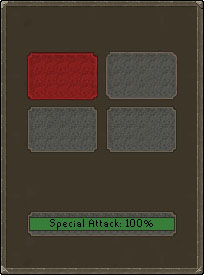
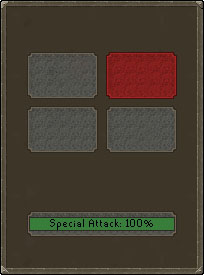
styles

Changed region(s): [[0.1176, 0.1745, 0.8824, 0.3782]]

diff --git a/src/components/Equipment/WeaponStyles/WeaponDisplay.js b/src/components/Equipment/WeaponStyles/WeaponDisplay.js
@@ -1,10 +1,73 @@
-import React from 'react'
+import React , {useState, useEffect} from 'react'
 import './WeaponDisplay.css'
+import Style from './Style'
 
-export default function WeaponDisplay() {
-  return (
-    <div className='weapon-container'>
-        
-    </div>
-  )
+import Top_Right from './Images/Attack_Top_Right.jpeg'
+import Top_Left from './Images/Attack_Top_Left.jpeg'
+import Bottom_Right from './Images/Attack_Bottom_Right.jpeg'
+import Bottom_Left from './Images/Attack_Bottom_Left.jpeg'
+
+import { twoHSword } from './Types/2h-Sword'
+import { unarmed } from './Types/Unarmed'
+import { Axe } from './Types/Axe'
+
+export default function WeaponDisplay({ weapon, type }) {
+    const [style, setStyle] = useState('top_right')
+    const [img, setImg] = useState(Top_Right)
+    const [data, setData] = useState(unarmed)
+
+    useEffect(() => {
+        console.log(type)
+        switch(type){
+            case '2h Sword':
+                setData(twoHSword)
+                break;
+            case 'Unarmed':
+                setData(unarmed)
+                break;
+            case 'Axe':
+                setData(Axe)
+            default:
+                break;
+        }
+        console.log(data)
+    },[type])
+
+    useEffect(() => {
+        switch (style) {
+            case 'top_right':
+                setImg(Top_Right)
+                break;
+            case 'top_left':
+                setImg(Top_Left)
+                break;
+            case 'bottom_left':
+                setImg(Bottom_Left)
+                break;
+            case 'bottom_right':
+                setImg(Bottom_Right)
+                break;
+            default:
+                break;
+        }
+    },[style])
+
+
+    return (
+        <div
+            className='weapon-container'
+            style={{backgroundImage: `url(${img})`}}
+        >
+            <div className='weapon-name'>
+                {weapon.itemname? weapon.itemname.replace(/_/g, ' ') : 'Unarmed'}
+            </div>
+            <Style pos={'top_left'} setStyle={setStyle} data={data}/>
+            <Style pos={'top_right'} setStyle={setStyle} data={data}/>
+            <Style pos={'bottom_left'} setStyle={setStyle} data={data}/>
+            <Style pos={'bottom_right'} setStyle={setStyle} data={data}/>
+            <div className='weapon-category'>
+                Category: {type}
+            </div>
+        </div>
+    )
 }

diff --git a/src/components/Equipment/WeaponStyles/Style.js b/src/components/Equipment/WeaponStyles/Style.js
@@ -1,0 +1,50 @@
+import React, {useEffect, useState} from 'react'
+
+export default function Style({pos, setStyle, data}) {
+
+    const [imgUrl, setImgUrl] = useState('')
+    const [styleData, setStyleData] = useState({
+        name: 'Name',
+        attack: 'Attack',
+        boost: 'Boost',
+        level: 0
+    })
+
+
+    useEffect(() => {
+        if (styleData) setImgUrl(`https://oldschool.runescape.wiki/images/CombatStyles_%28${data.Type}%2C_${styleData.name.toLowerCase()}%29.png?b4ce5`)
+    }, [styleData])
+
+    useEffect(() => {
+        switch (pos) {
+            case 'top_left':
+                setStyleData(data.TopLeft)
+                break;
+            case 'top_right':
+                setStyleData(data.TopRight)
+                break;
+            case 'bottom_left':
+               setStyleData(data.BottomLeft)
+                break
+            case 'bottom_right':
+                setStyleData(data.BottomRight)
+                break;
+            default:
+                break;
+        }
+    },[data])
+
+    function handleClick() {
+        setStyle(pos)
+    }
+
+  return (
+    <div 
+        className={`style ${pos}`}
+        onClick={handleClick}
+    >
+        <img src={imgUrl}></img>
+        <a>{styleData? styleData.name : ''}</a>
+    </div>
+  )
+}

diff --git a/src/components/Equipment/WeaponStyles/WeaponDisplay.css b/src/components/Equipment/WeaponStyles/WeaponDisplay.css
@@ -2,4 +2,63 @@
     background-image: url('./Images/Attack_style_tab.webp');
     width: 205px;
     height: 275px;
+
+    user-drag: none; 
+    user-select: none;
+    -moz-user-select: none;
+    -webkit-user-drag: none;
+    -webkit-user-select: none;
+    -ms-user-select: none;
+}
+
+.style {
+    padding-left: 17px;
+    display: flex;
+    flex-direction: column;
+    position: relative;
+    align-items: baseline;
+    width: 72px;
+    height: 50px;
+}
+
+.style img {
+    padding-top: 7px;
+    width: 33%;
+}
+
+.weapon-name{
+    text-align: center;
+    position: relative;
+    left: -3px;
+    top: 18px;
+    color: rgb(218, 161, 17);
+    text-shadow: 1px 1px 2px black;
+}
+
+.weapon-category {
+    text-align: center;
+    position: relative;
+    left: -3px;
+    top: 20px;
+    color: rgb(218, 161, 17);
+    text-shadow: 1px 1px 2px black;
+}
+
+.top_left {
+    left: 27px;
+    top: 30px;
+}
+
+.top_right {
+    left: 105px;
+    top: -18px;
+}
+
+.bottom_left {
+    left: 27px;
+    top: -16px;
+}
+.bottom_right{
+    left: 105px;
+    top: -63px;
 }

diff --git a/src/components/Equipment/WeaponStyles/Types/2h-Sword.js b/src/components/Equipment/WeaponStyles/Types/2h-Sword.js
@@ -1,0 +1,27 @@
+export const twoHSword = {
+    TopRight:{
+        name: 'Slash',
+        attack: 'Slash',
+        boost: 'Strength',
+        level: 3
+    },
+    TopLeft:{
+        name: 'Chop',
+        attack: 'Slash',
+        boost: 'Attack',
+        level: 3
+    },
+    BottomLeft:{
+        name: 'Smash',
+        attack: 'Crush',
+        boost: 'Strength',
+        level: 3
+    },
+    BottomRight:{
+        name: 'Block',
+        attack: 'Slash',
+        boost: 'Defence',
+        level: 3
+    },
+    Type: '2h_sword'
+}

diff --git a/src/components/Equipment/WeaponStyles/Types/Axe.js b/src/components/Equipment/WeaponStyles/Types/Axe.js
@@ -1,0 +1,27 @@
+export const Axe = {
+    TopRight:{
+        name: 'Hack',
+        attack: 'Slash',
+        boost: 'Strength',
+        level: 3
+    },
+    TopLeft:{
+        name: 'Chop',
+        attack: 'Slash',
+        boost: 'Attack',
+        level: 3
+    },
+    BottomLeft:{
+        name: 'Smash',
+        attack: 'Crush',
+        boost: 'Strength',
+        level: 3
+    },
+    BottomRight:{
+        name: 'Block',
+        attack: 'Slash',
+        boost: 'Defence',
+        level: 3
+    },
+    Type: 'axe'
+}

diff --git a/src/components/Equipment/WeaponStyles/Types/Unarmed.js b/src/components/Equipment/WeaponStyles/Types/Unarmed.js
@@ -1,0 +1,27 @@
+export const unarmed = {
+    TopRight:{
+        name: 'Kick',
+        attack: 'Crush',
+        boost: 'Strength',
+        level: 3
+    },
+    TopLeft:{
+        name: 'Punch',
+        attack: 'Crush',
+        boost: 'Attack',
+        level: 3
+    },
+    BottomLeft:{
+        name: 'Block',
+        attack: 'Crush',
+        boost: 'Defence',
+        level: 3
+    },
+    BottomRight:{
+        name: '',
+        attack: '',
+        boost: '',
+        level: 0
+    },
+    Type: 'unarmed'
+}
